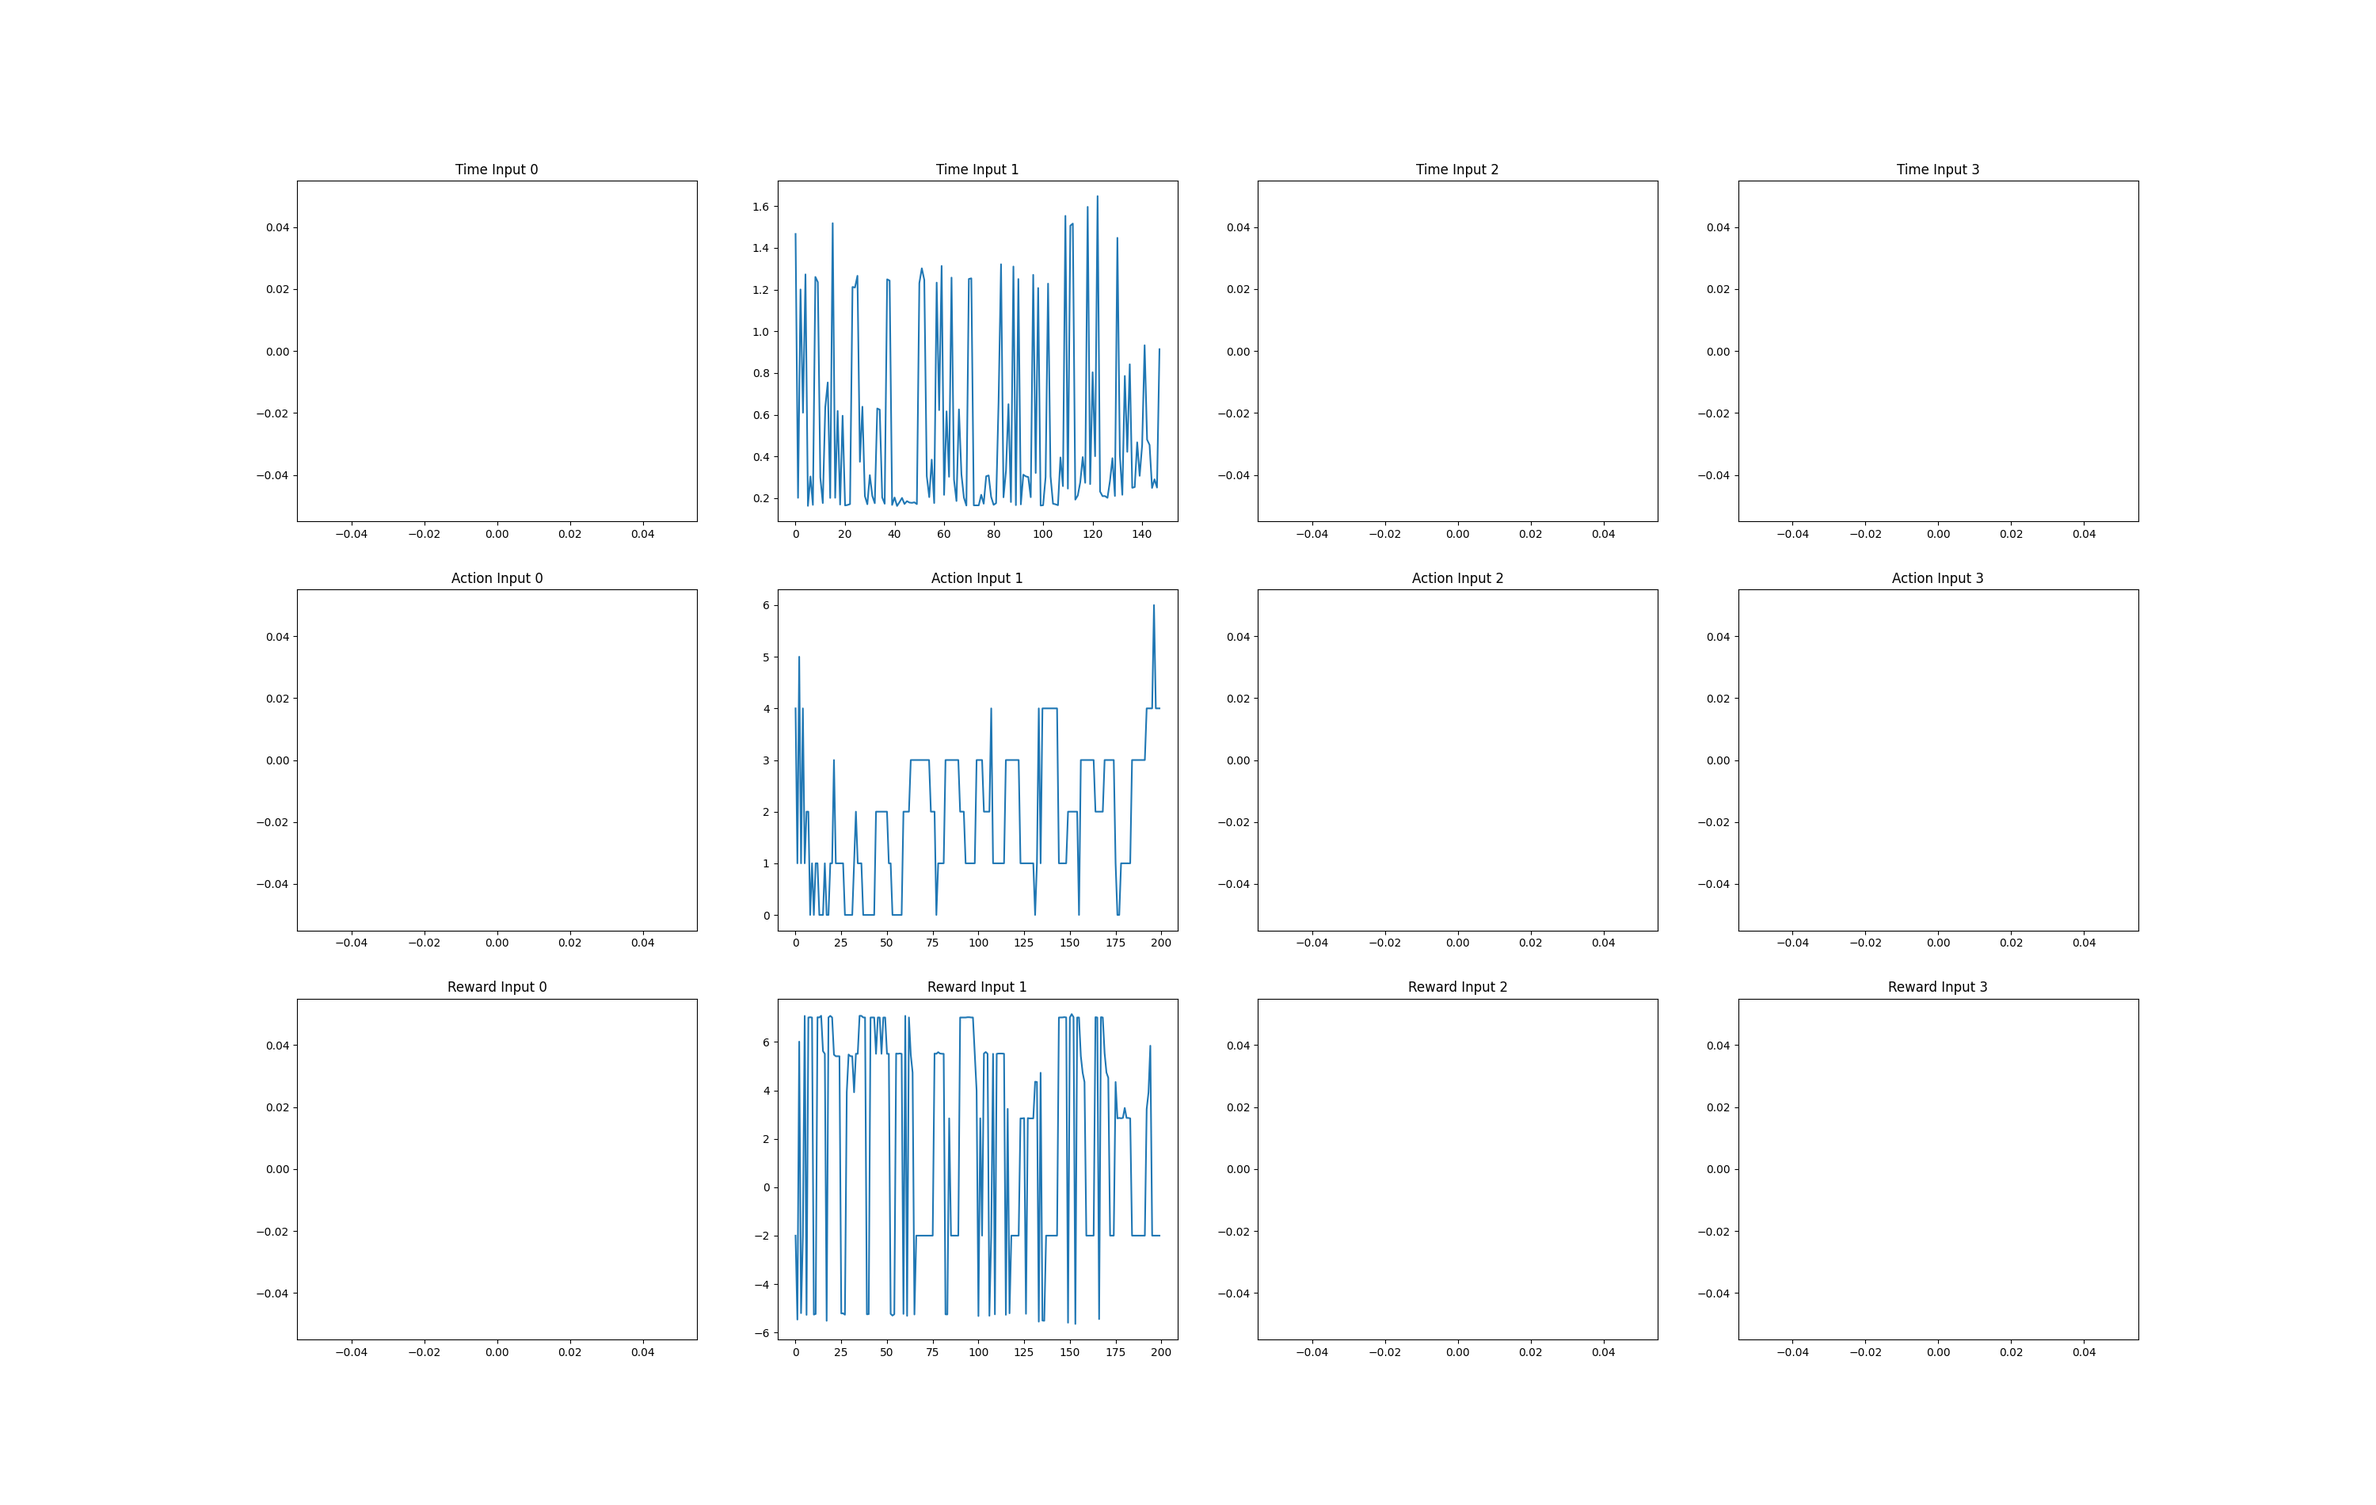
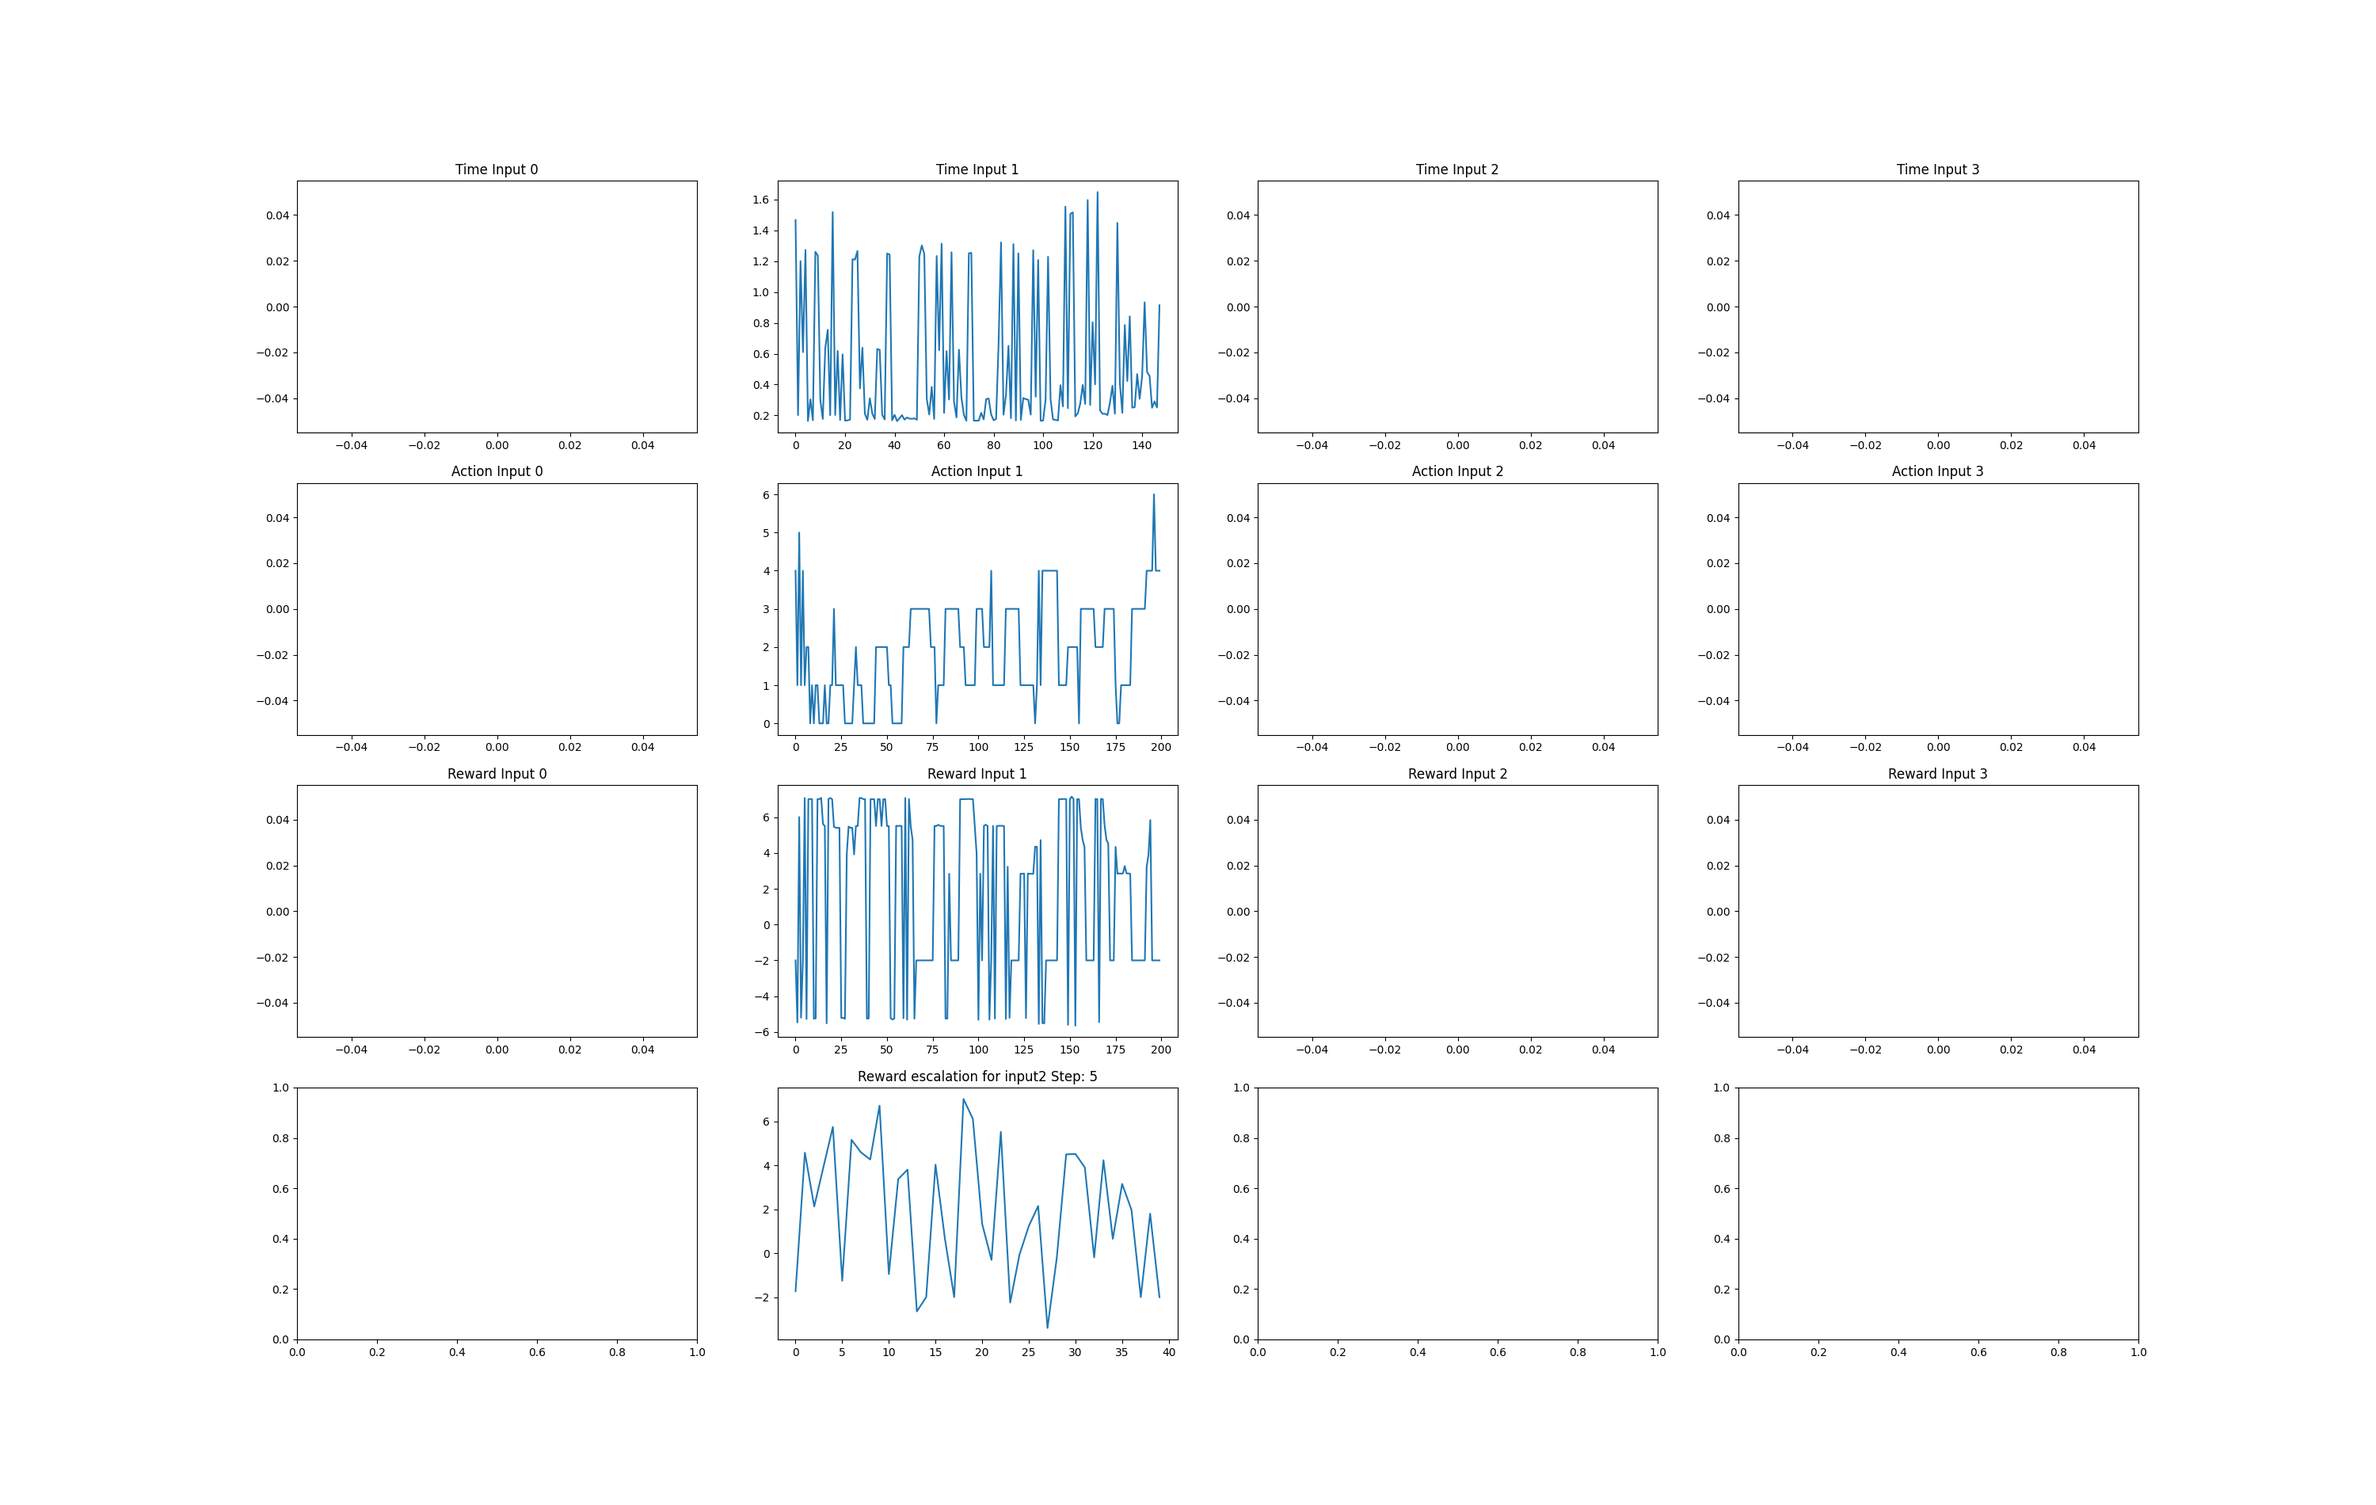
minor

diff --git a/Dynamic-Version-Scheduler/src/scheduler2.py b/Dynamic-Version-Scheduler/src/scheduler2.py
@@ -40,12 +40,13 @@ class CustomEnv(gym.Env):
             4: [25.8, 54.5, 102.0, 140.5, 200.0] 
         }
         
-        self.actionText = { 0: 'Moving framer', 1: 'Moving facedetector', 2: 'Moving models', 3: 'Scaling models UP', 4: 'Scaling models DOWN', 5: 'Scaling facedetectorfn2 UP',
-                            6: 'Scaling facedetectorfn2 DOWN', 7: 'Maintaining'}
+        self.actionText = { 0: 'Moving framer to worker1', 1: 'Moving framer to worker2', 2: 'Moving framer to worker3',  3: 'Moving framer to worker4',
+        4: 'Moving facedetector to worker1', 5: 'Moving facedetector to worker2', 6: 'Moving facedetector to worker3', 7: 'Moving facedetector to worker4',
+        8: 'Moving models', 9: 'Scaling models UP', 10: 'Scaling models DOWN', 11: 'Maintaining'}
 
         self.state = [0] * 35
 
-        self.action_space = gym.spaces.Discrete(8) # totally 8 possible actions for the agent
+        self.action_space = gym.spaces.Discrete(12) # totally 8 possible actions for the agent
         self.observation_space = gym.spaces.Box(low=0, high=20, shape=(35,), dtype=np.float64) # se ti diastima timwn anikoun oi metavlites pou apartizoun to state
         self.placementInit()
 
@@ -166,24 +167,62 @@ class CustomEnv(gym.Env):
             number_of_facedetector = int(number_of_facedetector_str[-5])
 
         if action == 0:
-            framer_command = ['faas', 'deploy', '-f', 'functions.yml', '--filter=framerfn', '--constraint', constraint_worker_command[bestScoreIndex]]
+            framer_command = ['faas', 'deploy', '-f', 'functions.yml', '--filter=framerfn', '--constraint', constraint_worker_command[1]]
             try:
                 ret = subprocess.check_call(framer_command, cwd='../../functions/version1', stderr=subprocess.DEVNULL, stdout=subprocess.DEVNULL)
             except subprocess.CalledProcessError as e:
                 print('error = ', e)
                 return -1, 0
         elif action == 1:
-            if (number_of_facedetector >= 2):
-                command = 'faas remove facedetectorfn2'
-                subprocess.getoutput(command)
-                time.sleep(15)
-            facedetectorfn2_command = ['faas', 'deploy', '-f', 'functions.yml', '--filter=facedetectorfn2', '--constraint', constraint_worker_command[bestScoreIndex]]
+            framer_command = ['faas', 'deploy', '-f', 'functions.yml', '--filter=framerfn', '--constraint', constraint_worker_command[2]]
+            try:
+                ret = subprocess.check_call(framer_command, cwd='../../functions/version1', stderr=subprocess.DEVNULL, stdout=subprocess.DEVNULL)
+            except subprocess.CalledProcessError as e:
+                print('error = ', e)
+                return -1, 0
+        elif action == 2:
+            framer_command = ['faas', 'deploy', '-f', 'functions.yml', '--filter=framerfn', '--constraint', constraint_worker_command[3]]
+            try:
+                ret = subprocess.check_call(framer_command, cwd='../../functions/version1', stderr=subprocess.DEVNULL, stdout=subprocess.DEVNULL)
+            except subprocess.CalledProcessError as e:
+                print('error = ', e)
+                return -1, 0
+        elif action == 3:
+            framer_command = ['faas', 'deploy', '-f', 'functions.yml', '--filter=framerfn', '--constraint', constraint_worker_command[4]]
+            try:
+                ret = subprocess.check_call(framer_command, cwd='../../functions/version1', stderr=subprocess.DEVNULL, stdout=subprocess.DEVNULL)
+            except subprocess.CalledProcessError as e:
+                print('error = ', e)
+                return -1, 0
+        elif action == 4:
+            facedetectorfn2_command = ['faas', 'deploy', '-f', 'functions.yml', '--filter=facedetectorfn2', '--constraint', constraint_worker_command[1]]
             try:
                 ret = subprocess.check_call(facedetectorfn2_command, cwd='../../functions/version1', stderr=subprocess.DEVNULL, stdout=subprocess.DEVNULL)        
             except subprocess.CalledProcessError as e:
                 print('error = ', e)
                 return -1, 0
-        elif action == 2:
+        elif action == 5:
+            facedetectorfn2_command = ['faas', 'deploy', '-f', 'functions.yml', '--filter=facedetectorfn2', '--constraint', constraint_worker_command[2]]
+            try:
+                ret = subprocess.check_call(facedetectorfn2_command, cwd='../../functions/version1', stderr=subprocess.DEVNULL, stdout=subprocess.DEVNULL)        
+            except subprocess.CalledProcessError as e:
+                print('error = ', e)
+                return -1, 0
+        elif action == 6:
+            facedetectorfn2_command = ['faas', 'deploy', '-f', 'functions.yml', '--filter=facedetectorfn2', '--constraint', constraint_worker_command[3]]
+            try:
+                ret = subprocess.check_call(facedetectorfn2_command, cwd='../../functions/version1', stderr=subprocess.DEVNULL, stdout=subprocess.DEVNULL)        
+            except subprocess.CalledProcessError as e:
+                print('error = ', e)
+                return -1, 0
+        elif action == 7:
+            facedetectorfn2_command = ['faas', 'deploy', '-f', 'functions.yml', '--filter=facedetectorfn2', '--constraint', constraint_worker_command[4]]
+            try:
+                ret = subprocess.check_call(facedetectorfn2_command, cwd='../../functions/version1', stderr=subprocess.DEVNULL, stdout=subprocess.DEVNULL)        
+            except subprocess.CalledProcessError as e:
+                print('error = ', e)
+                return -1, 0
+        elif action == 8:
             if (number_of_models >= 2):
                 command = 'faas remove faceanalyzerfn && faas remove mobilenetfn'
                 subprocess.getoutput(command)
@@ -196,7 +235,7 @@ class CustomEnv(gym.Env):
             except subprocess.CalledProcessError as e:
                 print('error = ', e)
                 return -1, 0
-        elif action == 3:
+        elif action == 9:
             if (number_of_models == 4):
                 return -1, 0
             else:
@@ -204,30 +243,13 @@ class CustomEnv(gym.Env):
                 command = scale_models_commnand + replicas_command[number_of_models]
                 subprocess.getoutput(command)
 
-        elif action == 4:
+        elif action == 10:
             if (number_of_models == 1):
                 return -1, 0
             else:
                 number_of_models -= 1
                 command = scale_models_commnand + replicas_command[number_of_models]
                 subprocess.getoutput(command)
-        
-        elif action == 5:
-            if (number_of_facedetector == 4):
-                return -1, 0
-            else:
-                number_of_facedetector += 1
-                command = scale_facedetector_command + replicas_command[number_of_facedetector]
-                subprocess.getoutput(command)
-
-        elif action == 6:
-            if (number_of_facedetector == 1):
-                return -1, 0
-            else:
-                number_of_facedetector -= 1
-                command = scale_facedetector_command + replicas_command[number_of_facedetector]
-                subprocess.getoutput(command)
-
         else:
             pass
 
@@ -338,7 +360,7 @@ class CustomEnv(gym.Env):
             #newInputIndex = random.randint(1, 4)
             newInputIndex = 2
             #tMax = self.qosGenerator(inputIndex)
-            observedState = self.getState(pmc, self.qosGenerator(newInputIndex), newInputIndex)
+            observedState = self.getState(pmc, 34, newInputIndex)
             self.state = observedState
             reward = self.getReward(ignoredAction, latency, tMax)
             print('\u2219 tMax =', tMax, '\u2219 input-index =', inputIndex, '\u2219 bestScoreIndex =', bestScoreIndex, '\u2219 scores =', scores)
@@ -358,18 +380,19 @@ env = CustomEnv()
 
 policy_kwargs = dict(activation_fn=torch.nn.ReLU, net_arch=[256, 128, 64])
 
-
-model = DQN("MlpPolicy", env, policy_kwargs=policy_kwargs, verbose=1, train_freq=(1, "step"), learning_rate=0.0025, learning_starts=10,
-            batch_size=6, buffer_size=1000000, target_update_interval=2, gamma=0.99, exploration_fraction=0.1, 
+#batch_size: # of tuples (s_t, r, a, s_t+1)to feed in an update rule
+#train_freq: every train_freq steps we perform a batch_training
+#target_update_interval: 
+model = DQN("MlpPolicy", env, policy_kwargs=policy_kwargs, verbose=1, train_freq=(1, "step"), learning_rate=0.0025, learning_starts=15,
+            batch_size=32, buffer_size=1000000, target_update_interval=60, gamma=0.99, exploration_fraction=0.2, 
             exploration_initial_eps=1, exploration_final_eps=0.01, tensorboard_log="./logs/%s/" % dt)
 
 
-#summary_writer = tf.summary.create_file_writer("./logs/%s/" % dt)
 #model = DQN.load("./models/06_06_10/model_final.zip", env)
 
 if __name__ == "__main__":
-    total_timesteps = 300
-    checkpoint_callback = CheckpointCallback(save_freq=50, save_path="./models/%s/" % (dt))
+    total_timesteps = 400
+    checkpoint_callback = CheckpointCallback(save_freq=75, save_path="./models/%s/" % (dt))
     model.learn(total_timesteps=total_timesteps, callback=checkpoint_callback)
     model.save("./models/%s/model_final.zip" % (dt))
     

diff --git a/Dynamic-Version-Scheduler/src/parser.py b/Dynamic-Version-Scheduler/src/parser.py
@@ -104,6 +104,7 @@ def parseTimes(time_data):
         times[time['input'] - 1].append(time['time_quotient'])
     return times
 
+
 def parseActions(action_data):
     actions = ([], [], [], [])
     for action in action_data:
@@ -116,7 +117,17 @@ def parseActions(action_data):
 #versions = ['06_05_14', '06_05_21']
 #versions = ['06_06_10', '06_06_14']
 #versions = ['06_06_20']
-versions = ['06_07_11']
+#versions = ['06_07_11']
+#versions = ['06_11_20']
+#versions = ['06_16_10'] #512... #explor_factor=0.1
+#versions = ['06_16_18']
+#versions = ['06_17_01']
+versions = ['06_18_14']
+'''
+model = DQN("MlpPolicy", env, policy_kwargs=policy_kwargs, verbose=1, train_freq=(1, "step"), learning_rate=0.0025, learning_starts=15,
+            batch_size=32, buffer_size=1000000, target_update_interval=50, gamma=0.99, exploration_fraction=0.15, 
+            exploration_initial_eps=1, exploration_final_eps=0.01, tensorboard_log="./logs/%s/" % dt)
+'''
 time = mergeResults('t', versions)
 time2 = parseTimes(time)
 
@@ -126,7 +137,7 @@ action2 = parseActions(action)
 reward = mergeResults('r', versions)
 reward2 = parseRewards(reward)
 
-figure, axis = plt.subplots(3, 4, figsize=(30, 19))
+figure, axis = plt.subplots(5, 4, figsize=(30, 19))
 axis[0, 0].plot(time2[0])
 axis[0, 0].set_title('Time Input 0')
 
@@ -163,12 +174,18 @@ axis[2, 2].set_title('Reward Input 2')
 axis[2, 3].plot(reward2[3])
 axis[2, 3].set_title('Reward Input 3')
 
-plt.show()
-plt.savefig('../images/' + versions[0] + '.png')
+
 print('FOR VERSIONS:', str(versions))
 print('action-len =', len(action), ', time-len =', len(time), ', reward-len =', len(reward))
 print('TIMES AVG / 100 STEPS:', my_mean(time2[1][0:100]), my_mean(time2[1][100:200]), my_mean(time2[1][200:300]), my_mean(time2[1][300:400]))
 print('REWARDS AVG / 100 STEPS:', my_mean(reward2[1][0:100]), my_mean(reward2[1][100:200]), my_mean(reward2[1][200:300]), my_mean(reward2[1][300:400]))
+vals = []
+for i in range(0, 300, 5):
+    a = my_mean(reward2[1][(i):(i+5)])
+    vals.append(a)
+
+axis[3,1].plot(vals)
+axis[3, 1].set_title('Reward escalation for input2 Step: 5')
 
 frequency = {}
 for item in action2[1]:
@@ -179,4 +196,18 @@ for item in action2[1]:
 
 print('ACTIONS SELECTED FREQUENCY:', {k: v for k, v in sorted(frequency.items(), key=lambda item: item[1])})
 
+print('Violations')
+t = []
+count = 0
+for i in range(0, len(reward2[1])):
+    if (int(reward2[1][i]) > 0):
+        t.append(1)
+        count += 1
+    else:
+        t.append(-1)
+print(t, count, len(t)-count)
+axis[4,1].plot(t)
+axis[4, 1].set_title('+- escalation for input2 Step: 5')
 #print(mean(time2[0]), mean(time2[1]))
+plt.show()
+plt.savefig('../images/' + versions[0] + '.png')

diff --git a/runtime/version1/version1fn.py b/runtime/version1/version1fn.py
@@ -74,12 +74,12 @@ start_now = datetime.utcnow()
 start_now_str = start_now.isoformat("T") + "Z"
 
 
-check_start_command = 'kubectl logs gateway-5b99d95c8f-2l9rg gateway -n openfaas --since-time=' + start_now_str + '| grep -e "/function/mobilenetfn" -e "/function/faceanalyzerfn" | tail -n 1 | wc -l'
+check_start_command = 'kubectl logs gateway-5b99d95c8f-vhwzg gateway -n openfaas --since-time=' + start_now_str + '| grep -e "/function/mobilenetfn" -e "/function/faceanalyzerfn" | tail -n 1 | wc -l'
 while (command_received < 1):
     command_received = int(subprocess.getoutput(check_start_command))
 
 started = True
-count_frames_command = 'kubectl logs gateway-5b99d95c8f-2l9rg gateway -n openfaas --since-time=' + start_now_str + '| grep -e "/function/mobilenetfn" -e "/function/faceanalyzerfn" | tail -n' + str(frames_number) + ' | wc -l'
+count_frames_command = 'kubectl logs gateway-5b99d95c8f-vhwzg gateway -n openfaas --since-time=' + start_now_str + '| grep -e "/function/mobilenetfn" -e "/function/faceanalyzerfn" | tail -n' + str(frames_number) + ' | wc -l'
 while (frames_received < frames_number - 2):
     time.sleep(0.4)
     frames_received = int(subprocess.getoutput(count_frames_command))
